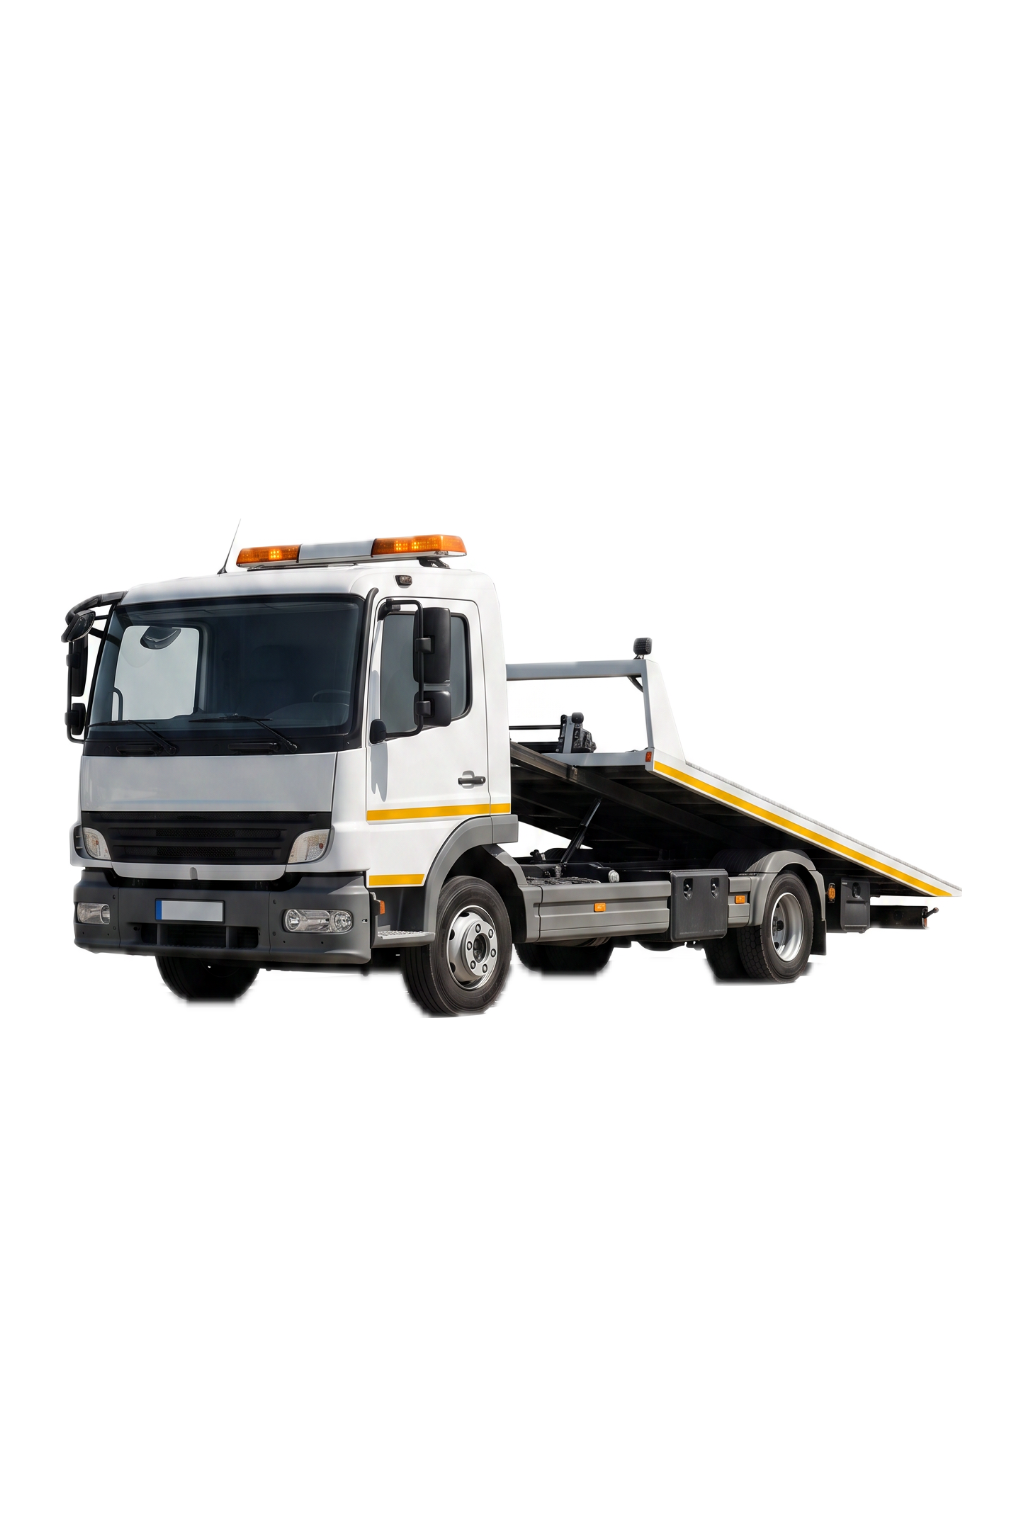
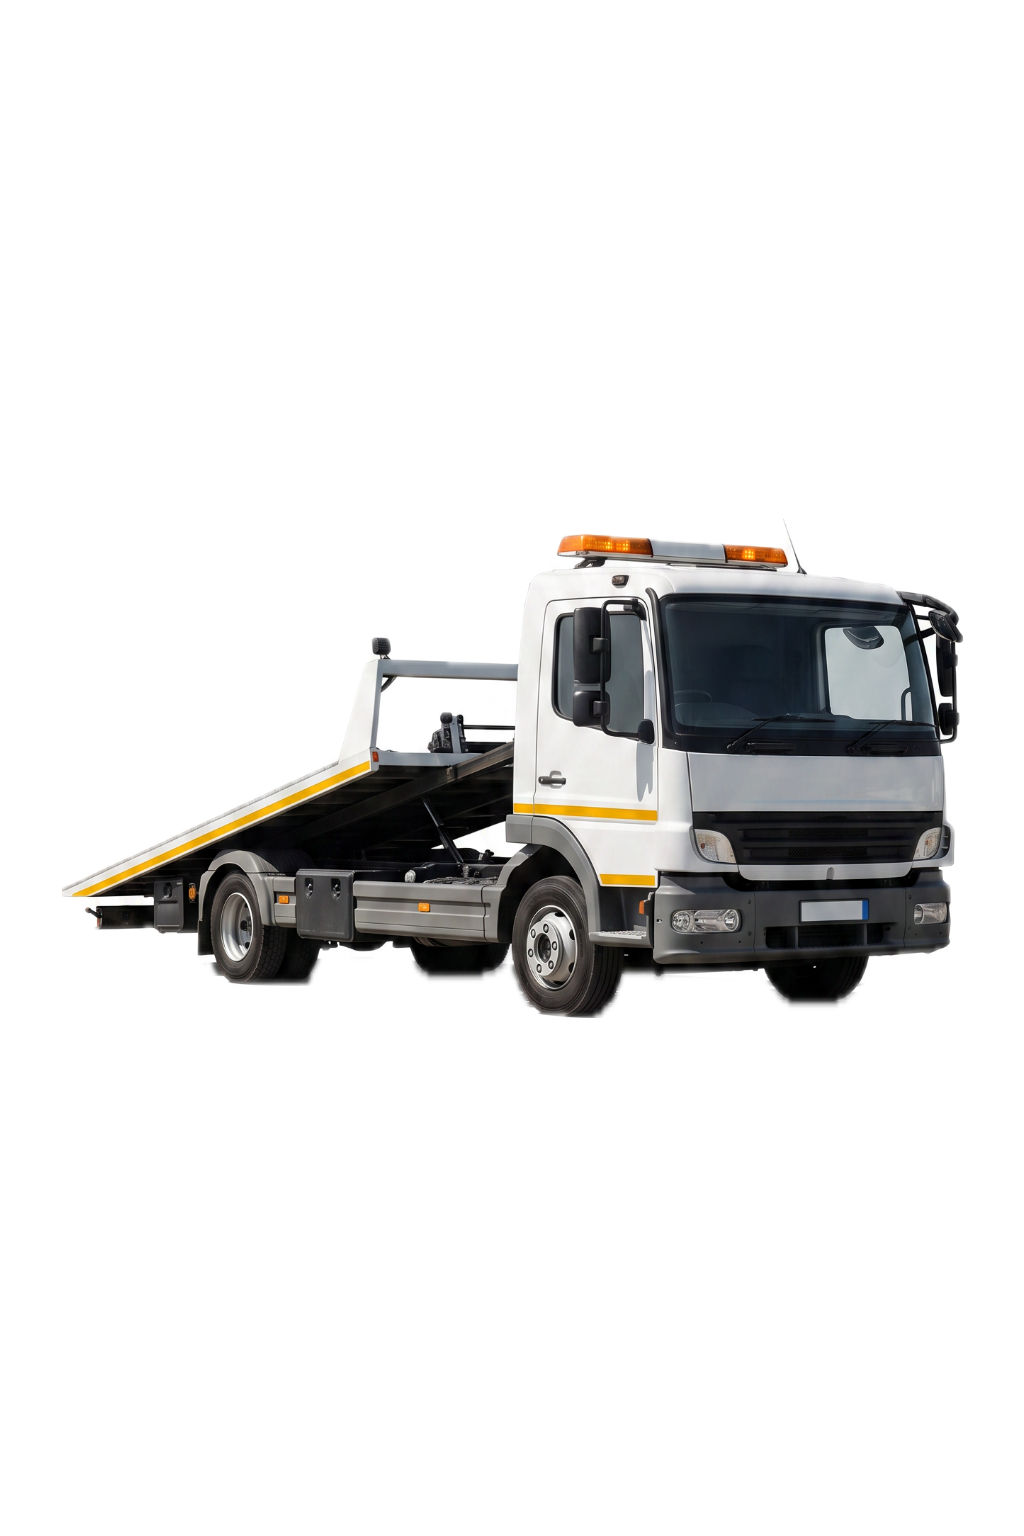
feat: enhance ServicesGrid with larger artwork for fuel and towing actions; adjust tile dimensions

Changed region(s): [[0.0625, 0.3438, 0.9375, 0.6875]]

diff --git a/lib/features/home/presentation/widgets/services_grid.dart b/lib/features/home/presentation/widgets/services_grid.dart
@@ -60,6 +60,7 @@ class ServicesGrid extends StatelessWidget {
                 imageAsset: _assetForAction(s.action),
                 fallbackIcon: _iconForAction(s.action),
                 iconColor: _iconColorForAction(s.action),
+                largeArt: _largeArtForAction(s.action),
                 route: routeForAction(s.action) ?? Routes.fuelType,
               ),
           ]
@@ -71,6 +72,7 @@ class ServicesGrid extends StatelessWidget {
               imageAsset: _assetForAction('fuel'),
               fallbackIcon: Icons.local_gas_station_rounded,
               iconColor: _iconColorForAction('fuel'),
+              largeArt: _largeArtForAction('fuel'),
               route: Routes.fuelType,
             ),
             _ServiceTileData(
@@ -78,6 +80,7 @@ class ServicesGrid extends StatelessWidget {
               imageAsset: _assetForAction('towing'),
               fallbackIcon: Icons.fire_truck_outlined,
               iconColor: _iconColorForAction('towing'),
+              largeArt: _largeArtForAction('towing'),
               route: Routes.towingRequest,
             ),
             _ServiceTileData(
@@ -91,7 +94,7 @@ class ServicesGrid extends StatelessWidget {
 
     // Three tiles across the row, each Expanded to a phone-friendly width.
     return SizedBox(
-      height: 140.h,
+      height: 156.h,
       child: Row(
         crossAxisAlignment: CrossAxisAlignment.stretch,
         children: [
@@ -145,6 +148,10 @@ class ServicesGrid extends StatelessWidget {
     }
   }
 
+  /// Fuel & towing artwork renders larger than the rest (design request).
+  static bool _largeArtForAction(String? action) =>
+      action == 'fuel' || action == 'towing';
+
   static String? _titleForAction(String? action, S l10n) {
     switch (action) {
       case 'fuel':
@@ -165,6 +172,7 @@ class _ServiceTileData {
   final String? imageAsset; // bundled artwork
   final IconData fallbackIcon;
   final Color? iconColor; // splash + fallback-icon tint
+  final bool largeArt; // bigger artwork area (fuel & towing)
   final String route;
 
   const _ServiceTileData({
@@ -173,6 +181,7 @@ class _ServiceTileData {
     this.imageAsset,
     required this.fallbackIcon,
     this.iconColor,
+    this.largeArt = false,
     required this.route,
   });
 }
@@ -281,11 +290,11 @@ class _ServiceTile extends StatelessWidget {
               children: [
                 // Portrait artwork area — taller than wide per design.
                 SizedBox(
-                  width: 56.w,
-                  height: 72.h,
+                  width: data.largeArt ? 78.w : 56.w,
+                  height: data.largeArt ? 92.h : 72.h,
                   child: _image(context),
                 ),
-                SizedBox(height: Insets.s10),
+                SizedBox(height: data.largeArt ? Insets.s8 : Insets.s10),
                 Text(
                   data.title,
                   maxLines: 1,
